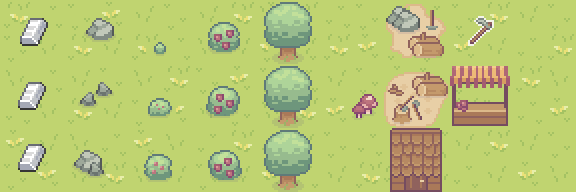
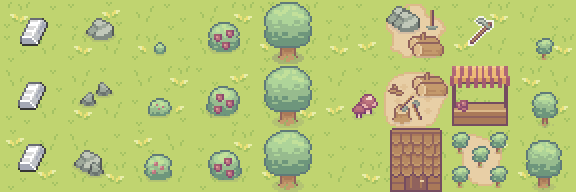
Updated tilemaps

Changed region(s): [[0.7812, 0.6875, 1.0, 1.0], [0.9062, 0.4688, 0.9688, 0.6562], [0.9062, 0.1875, 0.9688, 0.3125]]

diff --git a/static/js/map.js b/static/js/map.js
@@ -142,7 +142,7 @@ function generateMap() {
     const selections = ['grass', 'wood', 'stone', 'berry', 'iron'];
     const probabilities = [0.440, 0.410, 0.1, 0.025, 0.025];
 
-    console.log(probabilities.reduce((a, b) => a + b, 0));
+    //console.log(probabilities.reduce((a, b) => a + b, 0));
 
     for (let rowIndex = 0; rowIndex < 30; rowIndex ++) {
         const row = createTileRow();
@@ -248,13 +248,13 @@ function findTiles(building, type) {
 
         if (duration >= dayDuration / 2) {
             building.function.status = "out_of_range";
-            return [], 0;
+            return [[], 0];
         }
 
         tiles = getTilesInRadius(building.x, building.y, radius).sort(() => Math.random() - 0.5);
 
         if (tiles.some(tile => tile.getAttribute('type') === type)) {
-            return tiles, 0;
+            return [tiles, 0];
         }
 
         radius += 1;

diff --git a/static/js/data.js b/static/js/data.js
@@ -117,6 +117,11 @@ const buildingRequirements = {
         resources: { wood: 5 },
         time: 15,
     },
+    reforestationCamp: {
+        skill: 'foraging',
+        resources: { wood: 5 },
+        time: 15,
+    }
 };
 
 let userBuildings = [];
@@ -130,7 +135,7 @@ const buildingDescriptions = {
 }
 
 // let userForaging = []; // default
-let userForaging = ['collect', 'lumberCamp']
+let userForaging = ['collect', 'lumberCamp', 'reforestationCamp', 'sawmill']
 let userFarming = ['collect', 'gatherersHut'];
 let userMining = [];
 let userTrading = ['foodMarket']

diff --git a/static/js/buildings.js b/static/js/buildings.js
@@ -75,7 +75,7 @@ function startLumberCamp(building) {
         return
     }
 
-    const { tiles, duration } = findTiles(building, 'wood')
+    const [tiles, duration] = findTiles(building, 'wood')
 
     if (tiles.length < 1) {
         building.function.status = "out_of_range";
@@ -101,7 +101,7 @@ function startGatherersHut(building) {
         return;
     }
 
-    const { tiles, duration } = findTiles(building, 'berry')
+    const [tiles, duration] = findTiles(building, 'berry')
 
     if (tiles.length < 1) {
         building.function.status = "out_of_range";

diff --git a/static/css/map.css b/static/css/map.css
@@ -105,6 +105,17 @@ body, html {
     background-position: 0 -128px;
 }
 
+/* BERRY SEEDS */
+.treeSapling-tile[status="stage-1"] {
+    background-position: -512px 0;
+}
+.treeSapling-tile[status="stage-2"] {
+    background-position: -512px -64px;
+}
+.treeSapling-tile[status="stage-3"]  {
+    background-position: -512px -128px;
+}
+
 
 /* BUILDINGS */
 .buildersHut-tile {
@@ -121,4 +132,7 @@ body, html {
 }
 .foodMarket-tile {
     background-position: -448px -64px;
+}
+.reforestationCamp-tile {
+    background-position: -448px -128px;
 }

diff --git a/templates/app/class.html b/templates/app/class.html
@@ -67,7 +67,7 @@
         <button onclick="build('lumberCamp')">Lumber camp</button>
         <button onclick="build('gatherersHut')">Gatherers hut</button>
         <button onclick="build('foodMarket')">Food market</button>
-        <button onclick="build('reforestationCamp')">Food market</button>
+        <button onclick="build('reforestationCamp')">Reforestation camp</button>
         <button onclick="build('house')">House</button>
     </div>
 
